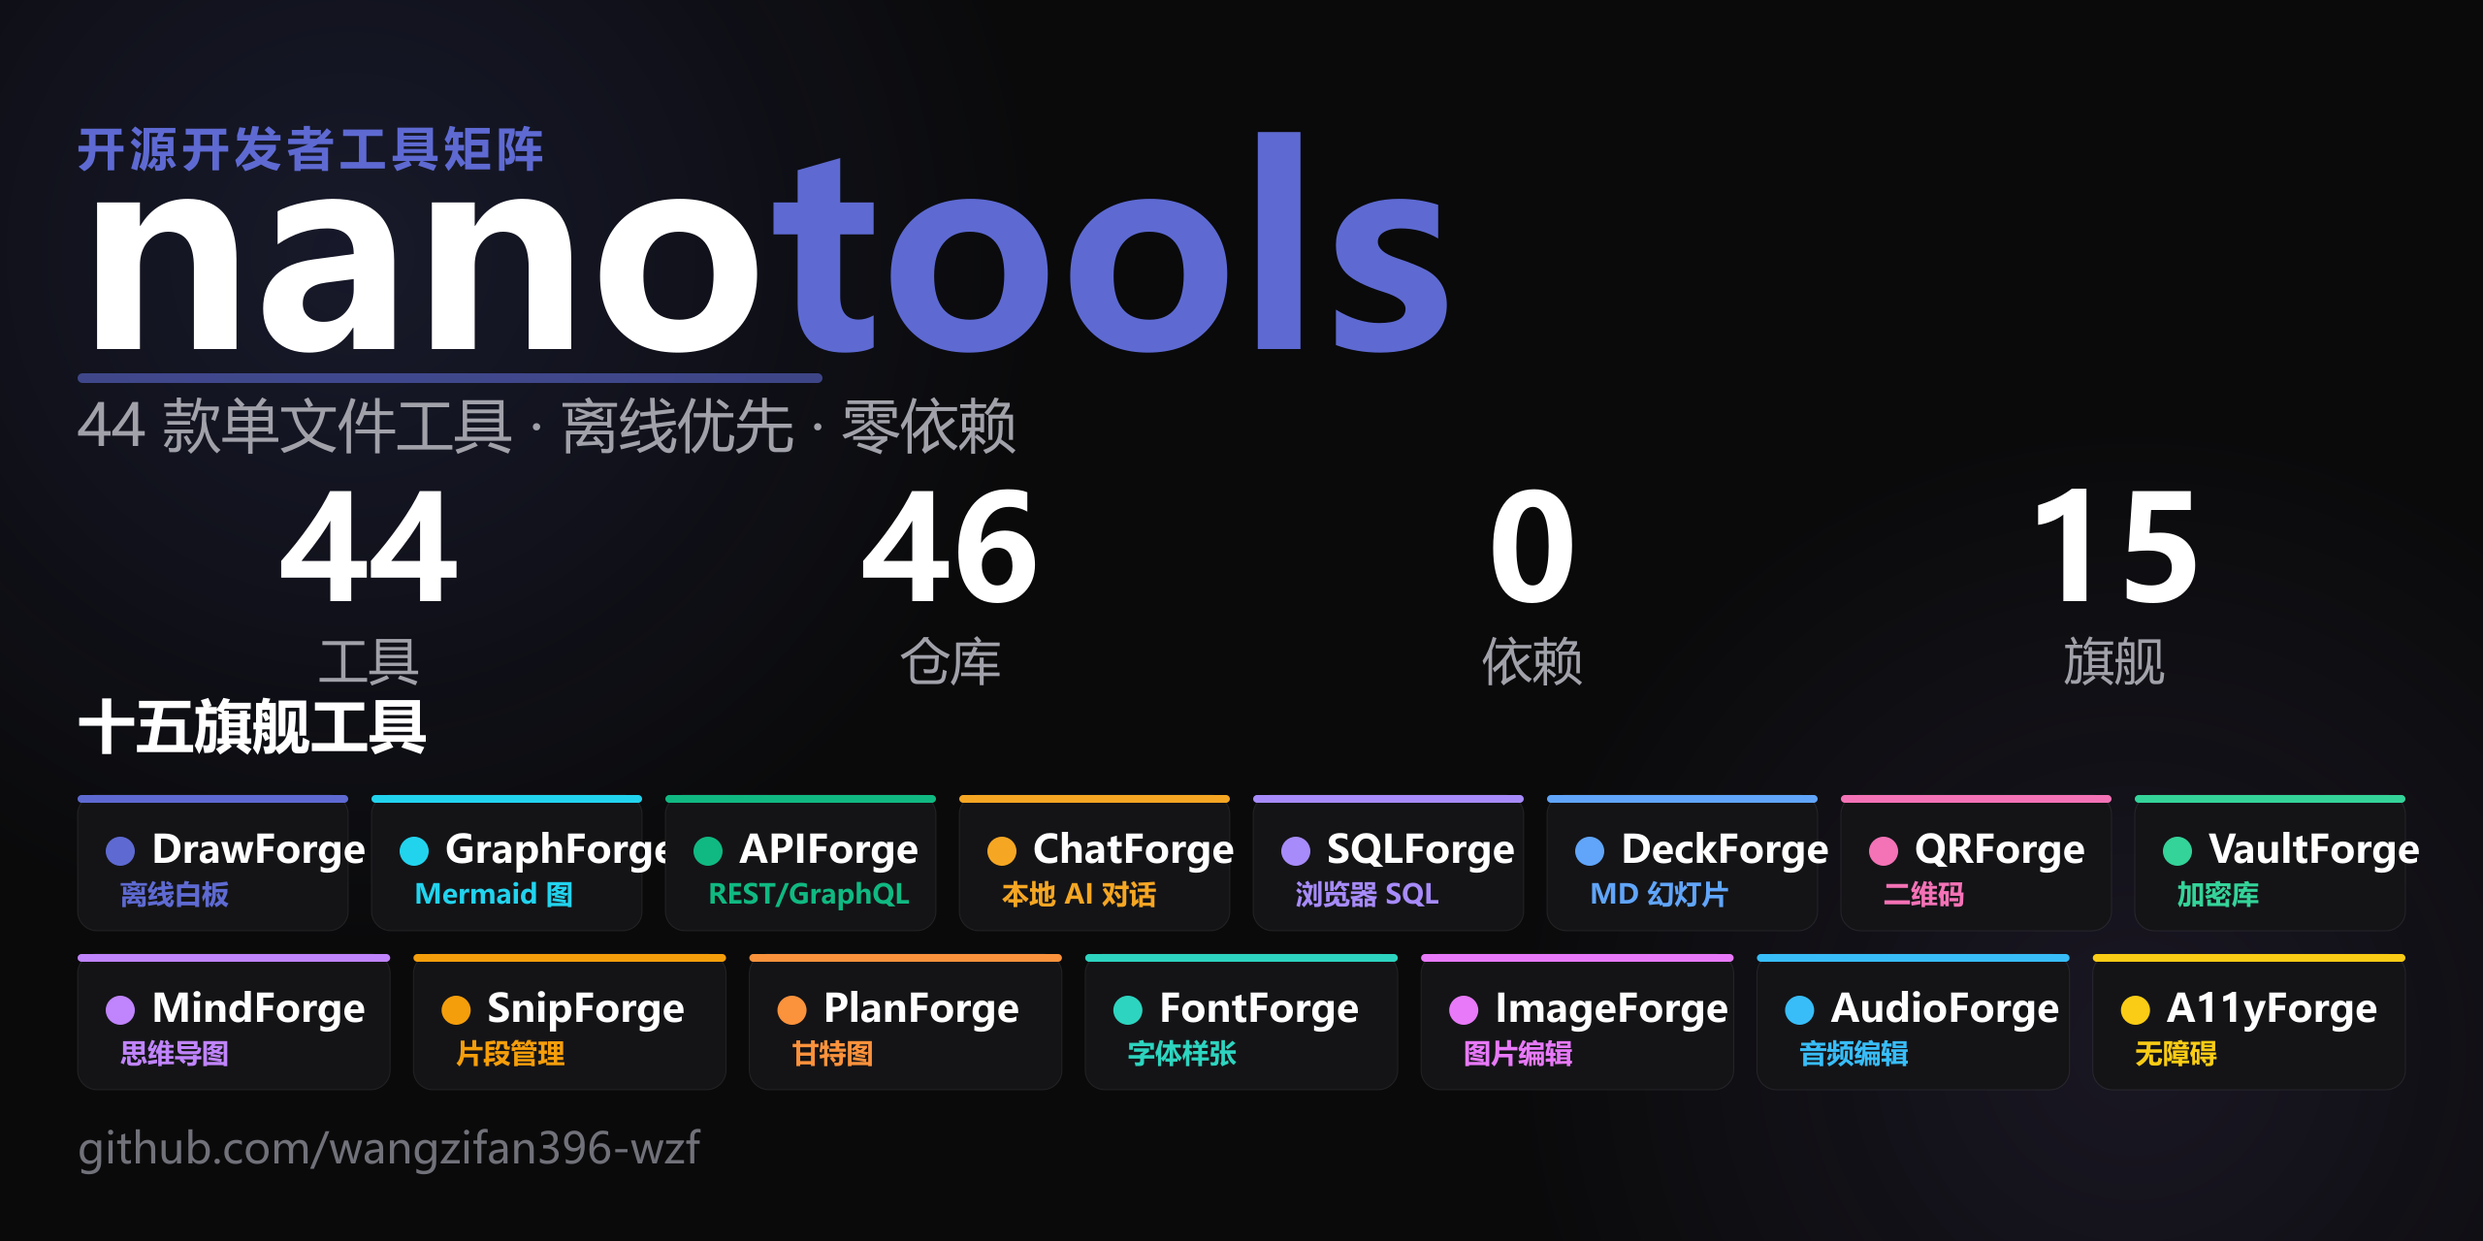
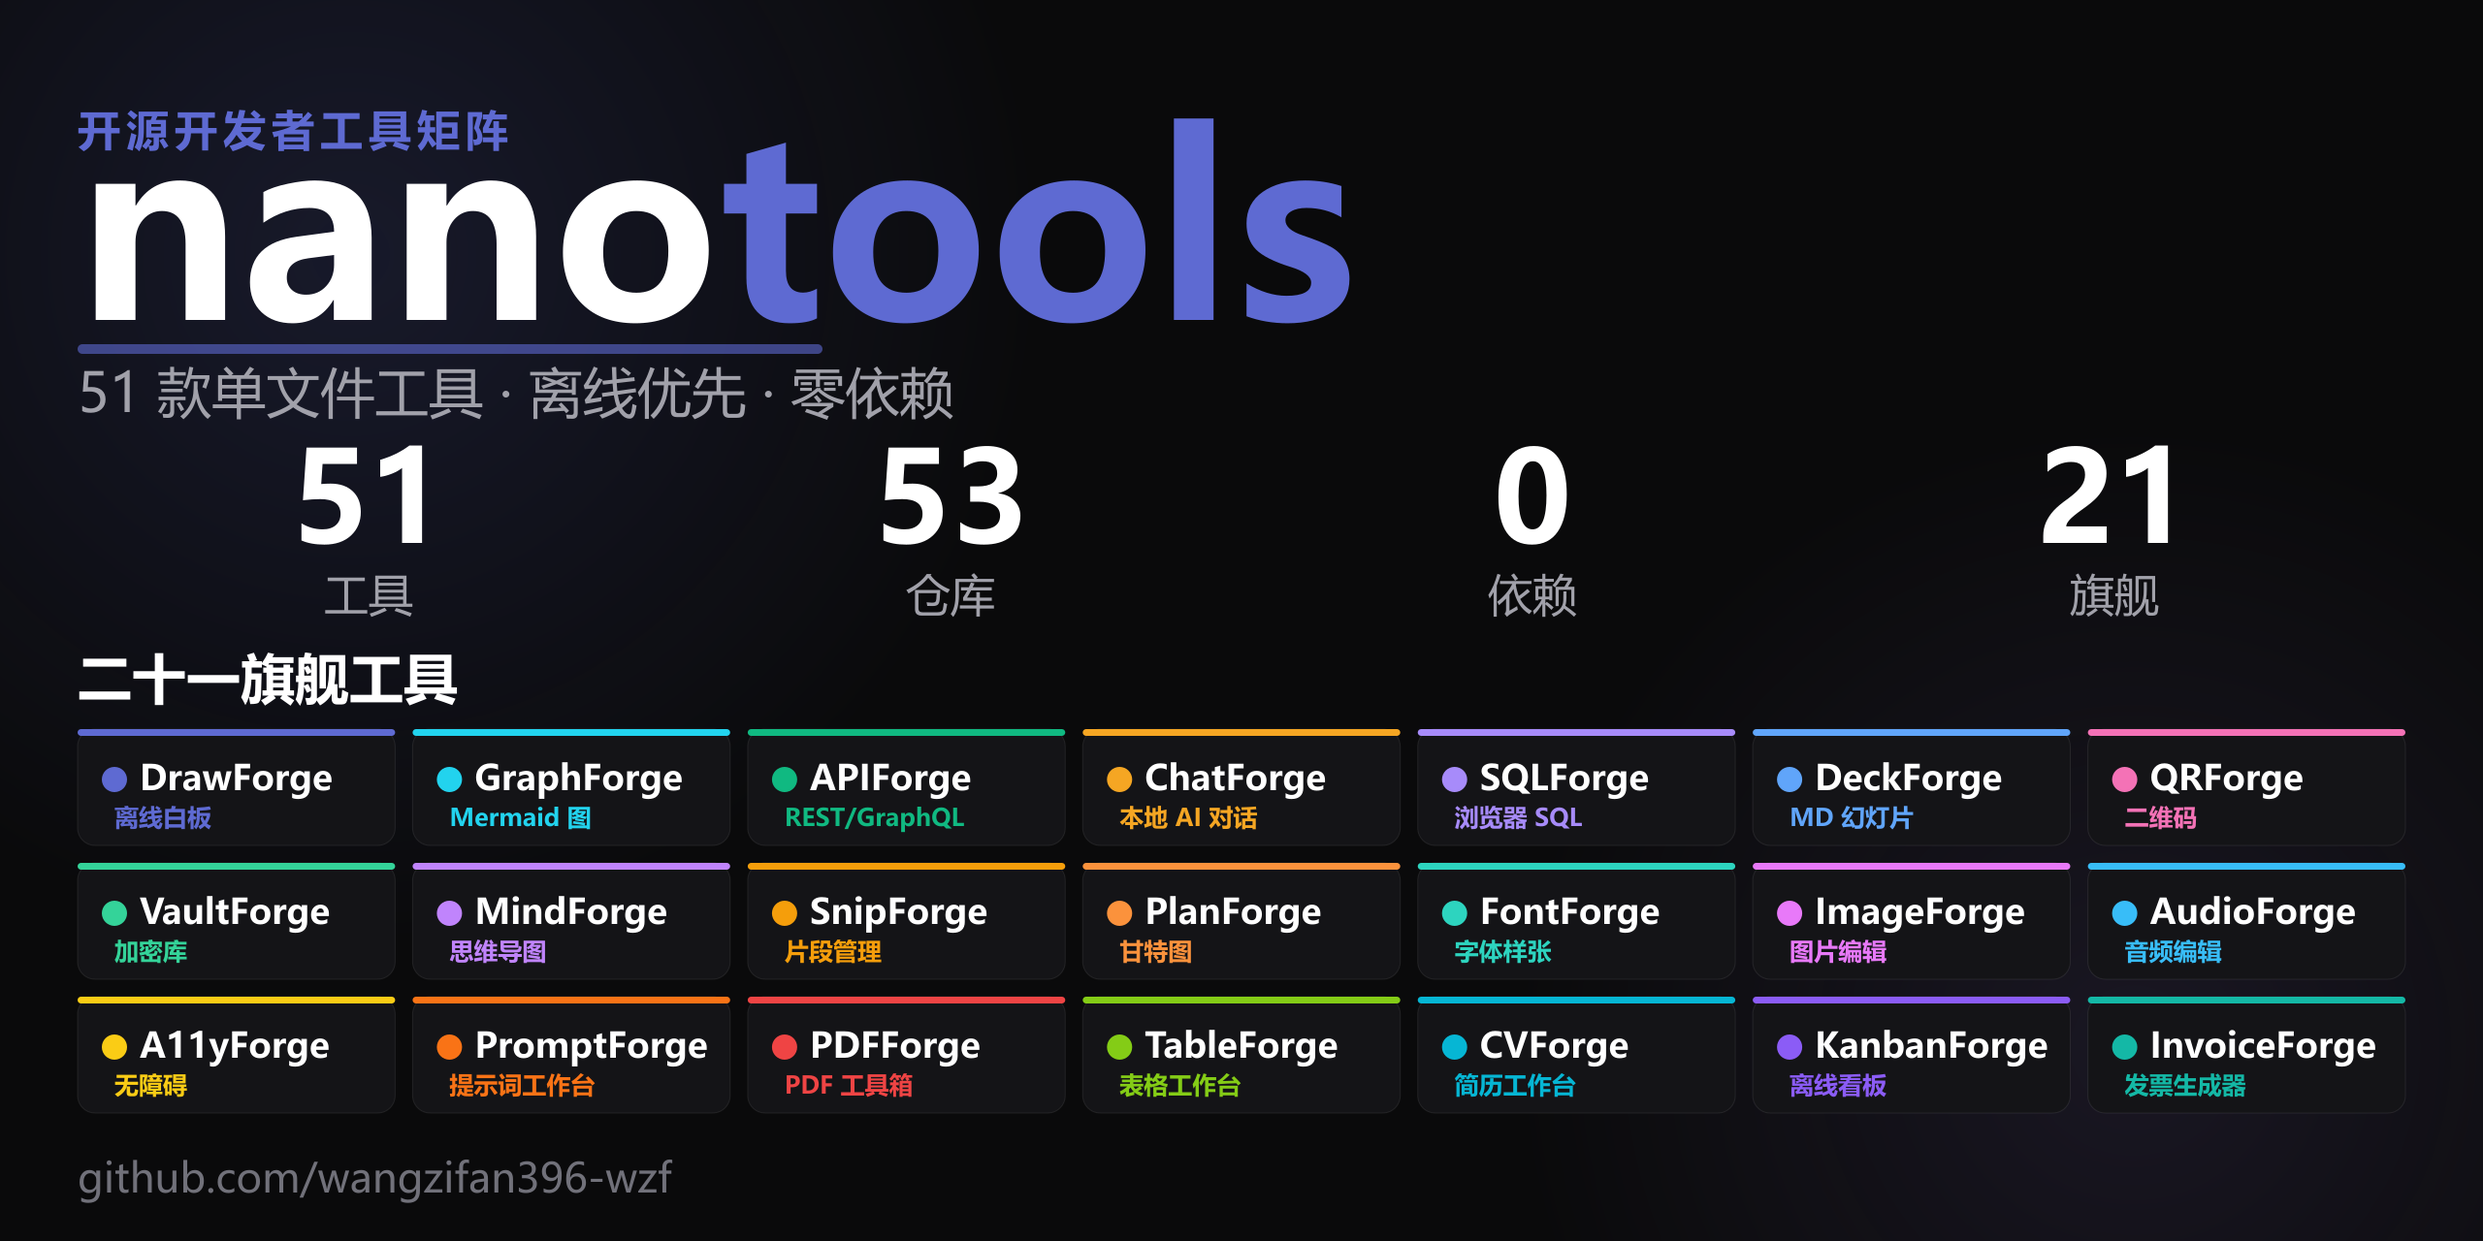
chore: refresh og social card and portal assets (51 tools / 53 repos)

Changed region(s): [[0.0312, 0.0938, 0.9688, 0.9688]]

diff --git a/index.html b/index.html
@@ -5,9 +5,9 @@
 <meta charset="UTF-8">
 <meta name="viewport" content="width=device-width, initial-scale=1.0">
 <title data-i18n="meta_title">nano-tools · 单文件零依赖工具集</title>
-<meta name="description" data-i18n="meta_desc" content="一个标签页，收纳你全部的开发者工具。48 个单文件、零依赖、本地优先的开源工具，下载即用，数据永不离机。">
+<meta name="description" data-i18n="meta_desc" content="一个标签页，收纳你全部的开发者工具。51 个单文件、零依赖、本地优先的开源工具，下载即用，数据永不离机。">
 <meta property="og:title" data-i18n="og_title" content="nano-tools · 单文件零依赖工具集">
-<meta property="og:description" data-i18n="og_desc" content="48 个单文件、零依赖、本地优先的开发者工具，下载即用，数据永不离机。">
+<meta property="og:description" data-i18n="og_desc" content="51 个单文件、零依赖、本地优先的开发者工具，下载即用，数据永不离机。">
 <meta property="og:image" content="social-preview.png">
 <meta property="og:image:width" content="1280">
 <meta property="og:image:height" content="640">
@@ -278,13 +278,13 @@
     <div class="hero-left">
       <span class="eyebrow"><span class="dot"></span><span data-i18n="hero_eyebrow">开源 · 零依赖 · 单文件</span></span>
       <h1 class="title" data-i18n-html="hero_title">一个标签页，<br>收纳你<span class="hl">全部的开发者工具</span></h1>
-      <p class="subtitle" data-i18n="hero_subtitle">48 个单文件、离线优先的开源工具，覆盖编码、转换、可视化与 AI。下载即用，数据永远留在你的浏览器里。</p>
+      <p class="subtitle" data-i18n="hero_subtitle">51 个单文件、离线优先的开源工具，覆盖编码、转换、可视化与 AI。下载即用，数据永远留在你的浏览器里。</p>
       <div class="hero-cta">
         <a class="btn primary" href="#tools" data-i18n="hero_browse">浏览工具 ↓</a>
         <a class="btn" href="https://github.com/wangzifan396-wzf" target="_blank" rel="noopener" data-i18n="hero_github">在 GitHub 查看</a>
       </div>
       <div class="hero-meta">
-        <span><b>50</b> <span data-i18n="meta_repos">开源仓库</span></span>
+        <span><b>53</b> <span data-i18n="meta_repos">开源仓库</span></span>
         <span><b>0</b> <span data-i18n="meta_deps">外部依赖</span></span>
         <span><b>100%</b> <span data-i18n="meta_local">本地运行</span></span>
       </div>
@@ -327,7 +327,7 @@
   <div class="wrap">
     <div class="sec-head reveal">
       <span class="label" data-i18n="tools_label">工具矩阵</span>
-      <h2 class="sec-title" data-i18n="tools_title">48 款精心打磨的开发者工具</h2>
+      <h2 class="sec-title" data-i18n="tools_title">51 款精心打磨的开发者工具</h2>
       <p class="sec-desc" data-i18n="tools_desc">搜索或按分类筛选，点击「在线试用」立即体验，或前往源码仓库查看实现。</p>
     </div>
     <div class="controls reveal">
@@ -385,7 +385,7 @@
 <div class="wrap">
   <div class="cta-band reveal" style="border-color:var(--acc);">
     <span class="pill ok" style="align-self:center;background:rgba(94,106,210,.16);color:#aab2f0;" data-i18n="wb_badge">★ 聚合工作台</span>
-    <h2 data-i18n="wb_title">一个标签页，收纳全部 48 款工具</h2>
+    <h2 data-i18n="wb_title">一个标签页，收纳全部 51 款工具</h2>
     <p data-i18n="wb_desc">nano-workbench：点选即在内嵌窗口运行、标签间即时切换，无需反复打开新页面。数据永不离机。</p>
     <div class="hero-cta">
       <a class="btn primary" href="https://wangzifan396-wzf.github.io/nano-workbench/" target="_blank" rel="noopener" data-i18n="wb_open">打开工作台 ↗</a>
@@ -397,7 +397,7 @@
 <div class="wrap">
   <div class="cta-band reveal">
     <h2 data-i18n="cta_title">把你下一个小工具，交给 nano-tools</h2>
-    <p data-i18n="cta_desc">50 个仓库、48 款工具，全部开源、零依赖、本地优先。</p>
+    <p data-i18n="cta_desc">53 个仓库、51 款工具，全部开源、零依赖、本地优先。</p>
     <div class="hero-cta">
       <a class="btn primary" href="#tools" data-i18n="cta_browse">开始浏览</a>
       <a class="btn" href="https://github.com/wangzifan396-wzf" target="_blank" rel="noopener">★ Star on GitHub</a>
@@ -425,16 +425,16 @@
   // 双语字典（中 / 英）。data-i18n 文本用 textContent；data-i18n-html 保留 <br>/<span> 结构；meta 改 content 属性。
   var I18N = {
     "meta_title":{zh:"nano-tools · 单文件零依赖工具集",en:"nano-tools · single-file, zero-dep tools"},
-    "meta_desc":{zh:"一个标签页，收纳你全部的开发者工具。48 个单文件、零依赖、本地优先的开源工具，下载即用，数据永不离机。",en:"One tab for all your dev tools. 48 single-file, zero-dep, local-first open-source tools. Download and use; data never leaves the browser."},
+    "meta_desc":{zh:"一个标签页，收纳你全部的开发者工具。51 个单文件、零依赖、本地优先的开源工具，下载即用，数据永不离机。",en:"One tab for all your dev tools. 51 single-file, zero-dep, local-first open-source tools. Download and use; data never leaves the browser."},
     "og_title":{zh:"nano-tools · 单文件零依赖工具集",en:"nano-tools · single-file, zero-dep tools"},
-    "og_desc":{zh:"48 个单文件、零依赖、本地优先的开发者工具，下载即用，数据永不离机。",en:"48 single-file, zero-dep, local-first dev tools. Download and use; data never leaves the browser."},
+    "og_desc":{zh:"51 个单文件、零依赖、本地优先的开发者工具，下载即用，数据永不离机。",en:"51 single-file, zero-dep, local-first dev tools. Download and use; data never leaves the browser."},
     "nav_features":{zh:"特性",en:"Features"},
     "nav_tools":{zh:"工具",en:"Tools"},
     "nav_stats":{zh:"数据",en:"Stats"},
     "nav_faq":{zh:"问答",en:"FAQ"},
     "hero_eyebrow":{zh:"开源 · 零依赖 · 单文件",en:"Open-source · Zero-dep · Single-file"},
     "hero_title":{zh:'一个标签页，<br>收纳你<span class="hl">全部的开发者工具</span>',en:'One tab, <br>for <span class="hl">all your dev tools</span>'},
-    "hero_subtitle":{zh:"48 个单文件、离线优先的开源工具，覆盖编码、转换、可视化与 AI。下载即用，数据永远留在你的浏览器里。",en:"48 single-file, offline-first open-source tools spanning encoding, conversion, visualization & AI. Download and use instantly; your data never leaves the browser."},
+    "hero_subtitle":{zh:"51 个单文件、离线优先的开源工具，覆盖编码、转换、可视化与 AI。下载即用，数据永远留在你的浏览器里。",en:"51 single-file, offline-first open-source tools spanning encoding, conversion, visualization & AI. Download and use instantly; your data never leaves the browser."},
     "hero_browse":{zh:"浏览工具 ↓",en:"Browse tools ↓"},
     "hero_github":{zh:"在 GitHub 查看",en:"View on GitHub"},
     "meta_repos":{zh:"开源仓库",en:"Open-source repos"},
@@ -450,16 +450,16 @@
     "step3_t":{zh:"单文件可携",en:"Portable single-file"},
     "step3_d":{zh:"每个工具只有一个 HTML 文件，零依赖、可随便复制分享，U 盘里也能跑。",en:"Each tool is one HTML file — zero dependencies, copy & share freely, runs from a USB stick."},
     "tools_label":{zh:"工具矩阵",en:"Tool matrix"},
-    "tools_title":{zh:"48 款精心打磨的开发者工具",en:"48 Hand-crafted Dev Tools"},
+    "tools_title":{zh:"51 款精心打磨的开发者工具",en:"51 Hand-crafted Dev Tools"},
     "tools_desc":{zh:"搜索或按分类筛选，点击「在线试用」立即体验，或前往源码仓库查看实现。",en:"Search or filter by category, hit “Live Demo” to try instantly, or visit the source repo."},
     "search_ph":{zh:"搜索工具… 试试 regex / json / 颜色 / 压缩 / 图表",en:"Search tools… try regex / json / color / compress / chart"},
     "btn_demo":{zh:"在线试用",en:"Live Demo"},
     "btn_src":{zh:"源码",en:"Source"},
     "no_result":{zh:"没有匹配的工具，换个关键词试试 🔍",en:"No matching tools — try another keyword 🔍"},
     "cta_title":{zh:"把你下一个小工具，交给 nano-tools",en:"Your next tiny tool, from nano-tools"},
-    "cta_desc":{zh:"50 个仓库、48 款工具，全部开源、零依赖、本地优先。",en:"50 repos, 48 tools. All open-source, zero-dep, local-first."},
+    "cta_desc":{zh:"53 个仓库、51 款工具，全部开源、零依赖、本地优先。",en:"53 repos, 48 tools. All open-source, zero-dep, local-first."},
     "wb_badge":{zh:"★ 聚合工作台",en:"★ Unified Workbench"},
-    "wb_title":{zh:"一个标签页，收纳全部 48 款工具",en:"All 48 tools in one tab"},
+    "wb_title":{zh:"一个标签页，收纳全部 51 款工具",en:"All 51 tools in one tab"},
     "wb_desc":{zh:"nano-workbench：点选即在内嵌窗口运行、标签间即时切换，无需反复打开新页面。数据永不离机。",en:"nano-workbench: pick a tool and run it in an embedded pane, switch tabs instantly — no more reopening pages. Data never leaves your machine."},
     "wb_open":{zh:"打开工作台 ↗",en:"Open Workbench ↗"},
     "wb_src":{zh:"查看源码",en:"View Source"},
@@ -631,7 +631,16 @@
      tags:["table","csv","editor","data"]},
     {id:"CVForge", name:"CVForge", icon:"cv", cat:"效率工具", badge:"新",
      desc:"离线简历 / CV 工作台：结构化表单 + 实时预览，三种模板，一键打印导出 PDF，JSON 导入导出，数据留本地。",
-     tags:["resume","cv","pdf","local"]}
+     tags:["resume","cv","pdf","local"]},
+    {id:"KanbanForge", name:"KanbanForge", icon:"kanban", cat:"效率工具", badge:"新",
+     desc:"离线看板：多列拖拽卡片，优先级 / 标签 / 搜索筛选，导出 Markdown / JSON，数据永不离机。",
+     tags:["kanban","task","board","local"]},
+    {id:"InvoiceForge", name:"InvoiceForge", icon:"invoice", cat:"效率工具", badge:"新",
+     desc:"离线发票 / 报价单生成器：行项目自动计税、人民币大写金额、A4 实时预览、一键打印导出 PDF。",
+     tags:["invoice","quote","pdf","finance"]},
+    {id:"TimeForge", name:"TimeForge", icon:"time", cat:"实用计算", badge:"新",
+     desc:"时间工具箱：Unix 时间戳 ⇄ 日期互转（自动识别秒/毫秒），6 时区对照，日期差与人性化时长计算。",
+     tags:["timestamp","timezone","date","converter"]}
   ];
 
   // 英文文案（按 id 索引；门户双语切换用）
@@ -684,7 +693,10 @@
     PromptForge:{desc:"Local-first AI prompt workbench — variable templates, live preview, BYOK run to OpenAI/Anthropic/OpenRouter, token & cost estimate, local history. Key never leaves browser.", cat:"AI"},
     PDFForge:{desc:"Local-first PDF toolkit — merge, split, rotate, reorder, optimize. Zero upload, single file, PDFLib powered.", cat:"Media"},
     TableForge:{desc:"Local-first table workbench — paste CSV/TSV/JSON, edit cells, add/remove rows & cols, sort, filter, group-aggregate, export Markdown/HTML/JSON/CSV/TSV.", cat:"Data"},
-    CVForge:{desc:"Local-first resume / CV builder — structured form with live preview, three templates, one-click print-to-PDF, JSON import/export. Data stays on your machine.", cat:"Productivity"}
+    CVForge:{desc:"Local-first resume / CV builder — structured form with live preview, three templates, one-click print-to-PDF, JSON import/export. Data stays on your machine.", cat:"Productivity"},
+    KanbanForge:{desc:"Offline kanban board — drag-and-drop cards across columns, priorities, tags, search filter, Markdown/JSON export. Data never leaves your machine.", cat:"Productivity"},
+    InvoiceForge:{desc:"Offline invoice & quote generator — line items with auto tax, Chinese uppercase amounts, live A4 preview, one-click print-to-PDF.", cat:"Productivity"},
+    TimeForge:{desc:"Time toolbox — Unix timestamp to date (auto s/ms detection), 6-timezone comparison, date diff with humanized duration.", cat:"Utility"}
   };
   // 中文分类 -> 英文分类 映射
   var CAT_EN = {"全部":"All"};
@@ -739,7 +751,10 @@
     pdf:'<path d="M14 2H6a2 2 0 0 0-2 2v16a2 2 0 0 0 2 2h12a2 2 0 0 0 2-2V8l-6-6zm0 2.5L17.5 8H14V4.5zM8 13h8v1.5H8V13zm0 3h8v1.5H8V16z"/>',
     prompt:'<path d="M4 5h16v14H4z"/><path d="M7 9l3 3-3 3"/><path d="M13 15h4"/>',
     table:'<path d="M3 3h18v18H3z"/><path d="M3 9h18M3 15h18M9 3v18M15 3v18"/>',
-    cv:'<path d="M14 2H6a2 2 0 0 0-2 2v16a2 2 0 0 0 2 2h12a2 2 0 0 0 2-2V8z"/><path d="M14 2v6h6"/><path d="M8 13h8M8 17h6"/>'
+    cv:'<path d="M14 2H6a2 2 0 0 0-2 2v16a2 2 0 0 0 2 2h12a2 2 0 0 0 2-2V8z"/><path d="M14 2v6h6"/><path d="M8 13h8M8 17h6"/>',
+    kanban:'<rect x="3" y="3" width="5" height="18" rx="1"/><rect x="10" y="3" width="5" height="12" rx="1"/><rect x="17" y="3" width="5" height="8" rx="1"/>',
+    invoice:'<path d="M14 2H6a2 2 0 0 0-2 2v16a2 2 0 0 0 2 2h12a2 2 0 0 0 2-2V8z"/><path d="M14 2v6h6"/><path d="M8 13h8M8 17h5"/><path d="M12 9h4"/>',
+    time:'<circle cx="12" cy="12" r="9"/><path d="M12 7v5l3.5 2"/>'
   };
   function iconSvg(k){ return '<svg viewBox="0 0 24 24" fill="none" stroke="currentColor" stroke-width="1.8" stroke-linecap="round" stroke-linejoin="round">'+(ICONS[k]||"")+'</svg>'; }
 

diff --git a/README.md b/README.md
@@ -18,7 +18,7 @@
 
 **一套单文件、零依赖、本地优先的开发者工具矩阵**的总入口。每个工具都是一个 `index.html`——无需安装、无需构建、无需联网，下载即用，数据永远留在你的浏览器里。
 
-## 🧰 工具矩阵（48 款单文件工具）
+## 🧰 工具矩阵（51 款单文件工具）
 
 | 工具 | 分类 | 简介 |
 |------|------|------|
@@ -70,3 +70,6 @@
 | [PDFForge](https://wangzifan396-wzf.github.io/PDFForge/) | 图像与媒体 | 本地优先 PDF 工具箱：合并、拆分、旋转、重排、优化重存，文件永不上传。 |
 | [TableForge](https://wangzifan396-wzf.github.io/TableForge/) | 数据工具 | 离线表格工作台：粘贴 CSV/TSV/JSON 即解析，单元格编辑、增删行列、排序、筛选、分组聚合，导出 Markdown/HTML/JSON/CSV/TSV。 |
 | [CVForge](https://wangzifan396-wzf.github.io/CVForge/) | 效率工具 | 离线简历 / CV 工作台：结构化表单 + 实时预览，三种模板，一键打印导出 PDF，JSON 导入导出，数据留本地。 |
+| [KanbanForge](https://wangzifan396-wzf.github.io/KanbanForge/) | 效率工具 | 离线看板：多列拖拽卡片，优先级 / 标签 / 搜索筛选，导出 Markdown / JSON，数据永不离机。 |
+| [InvoiceForge](https://wangzifan396-wzf.github.io/InvoiceForge/) | 效率工具 | 离线发票 / 报价单生成器：行项目自动计税、人民币大写金额、A4 实时预览、一键打印导出 PDF。 |
+| [TimeForge](https://wangzifan396-wzf.github.io/TimeForge/) | 实用计算 | 时间工具箱：Unix 时间戳 ⇄ 日期互转（自动识别秒/毫秒），6 时区对照，日期差与人性化时长计算。 |
